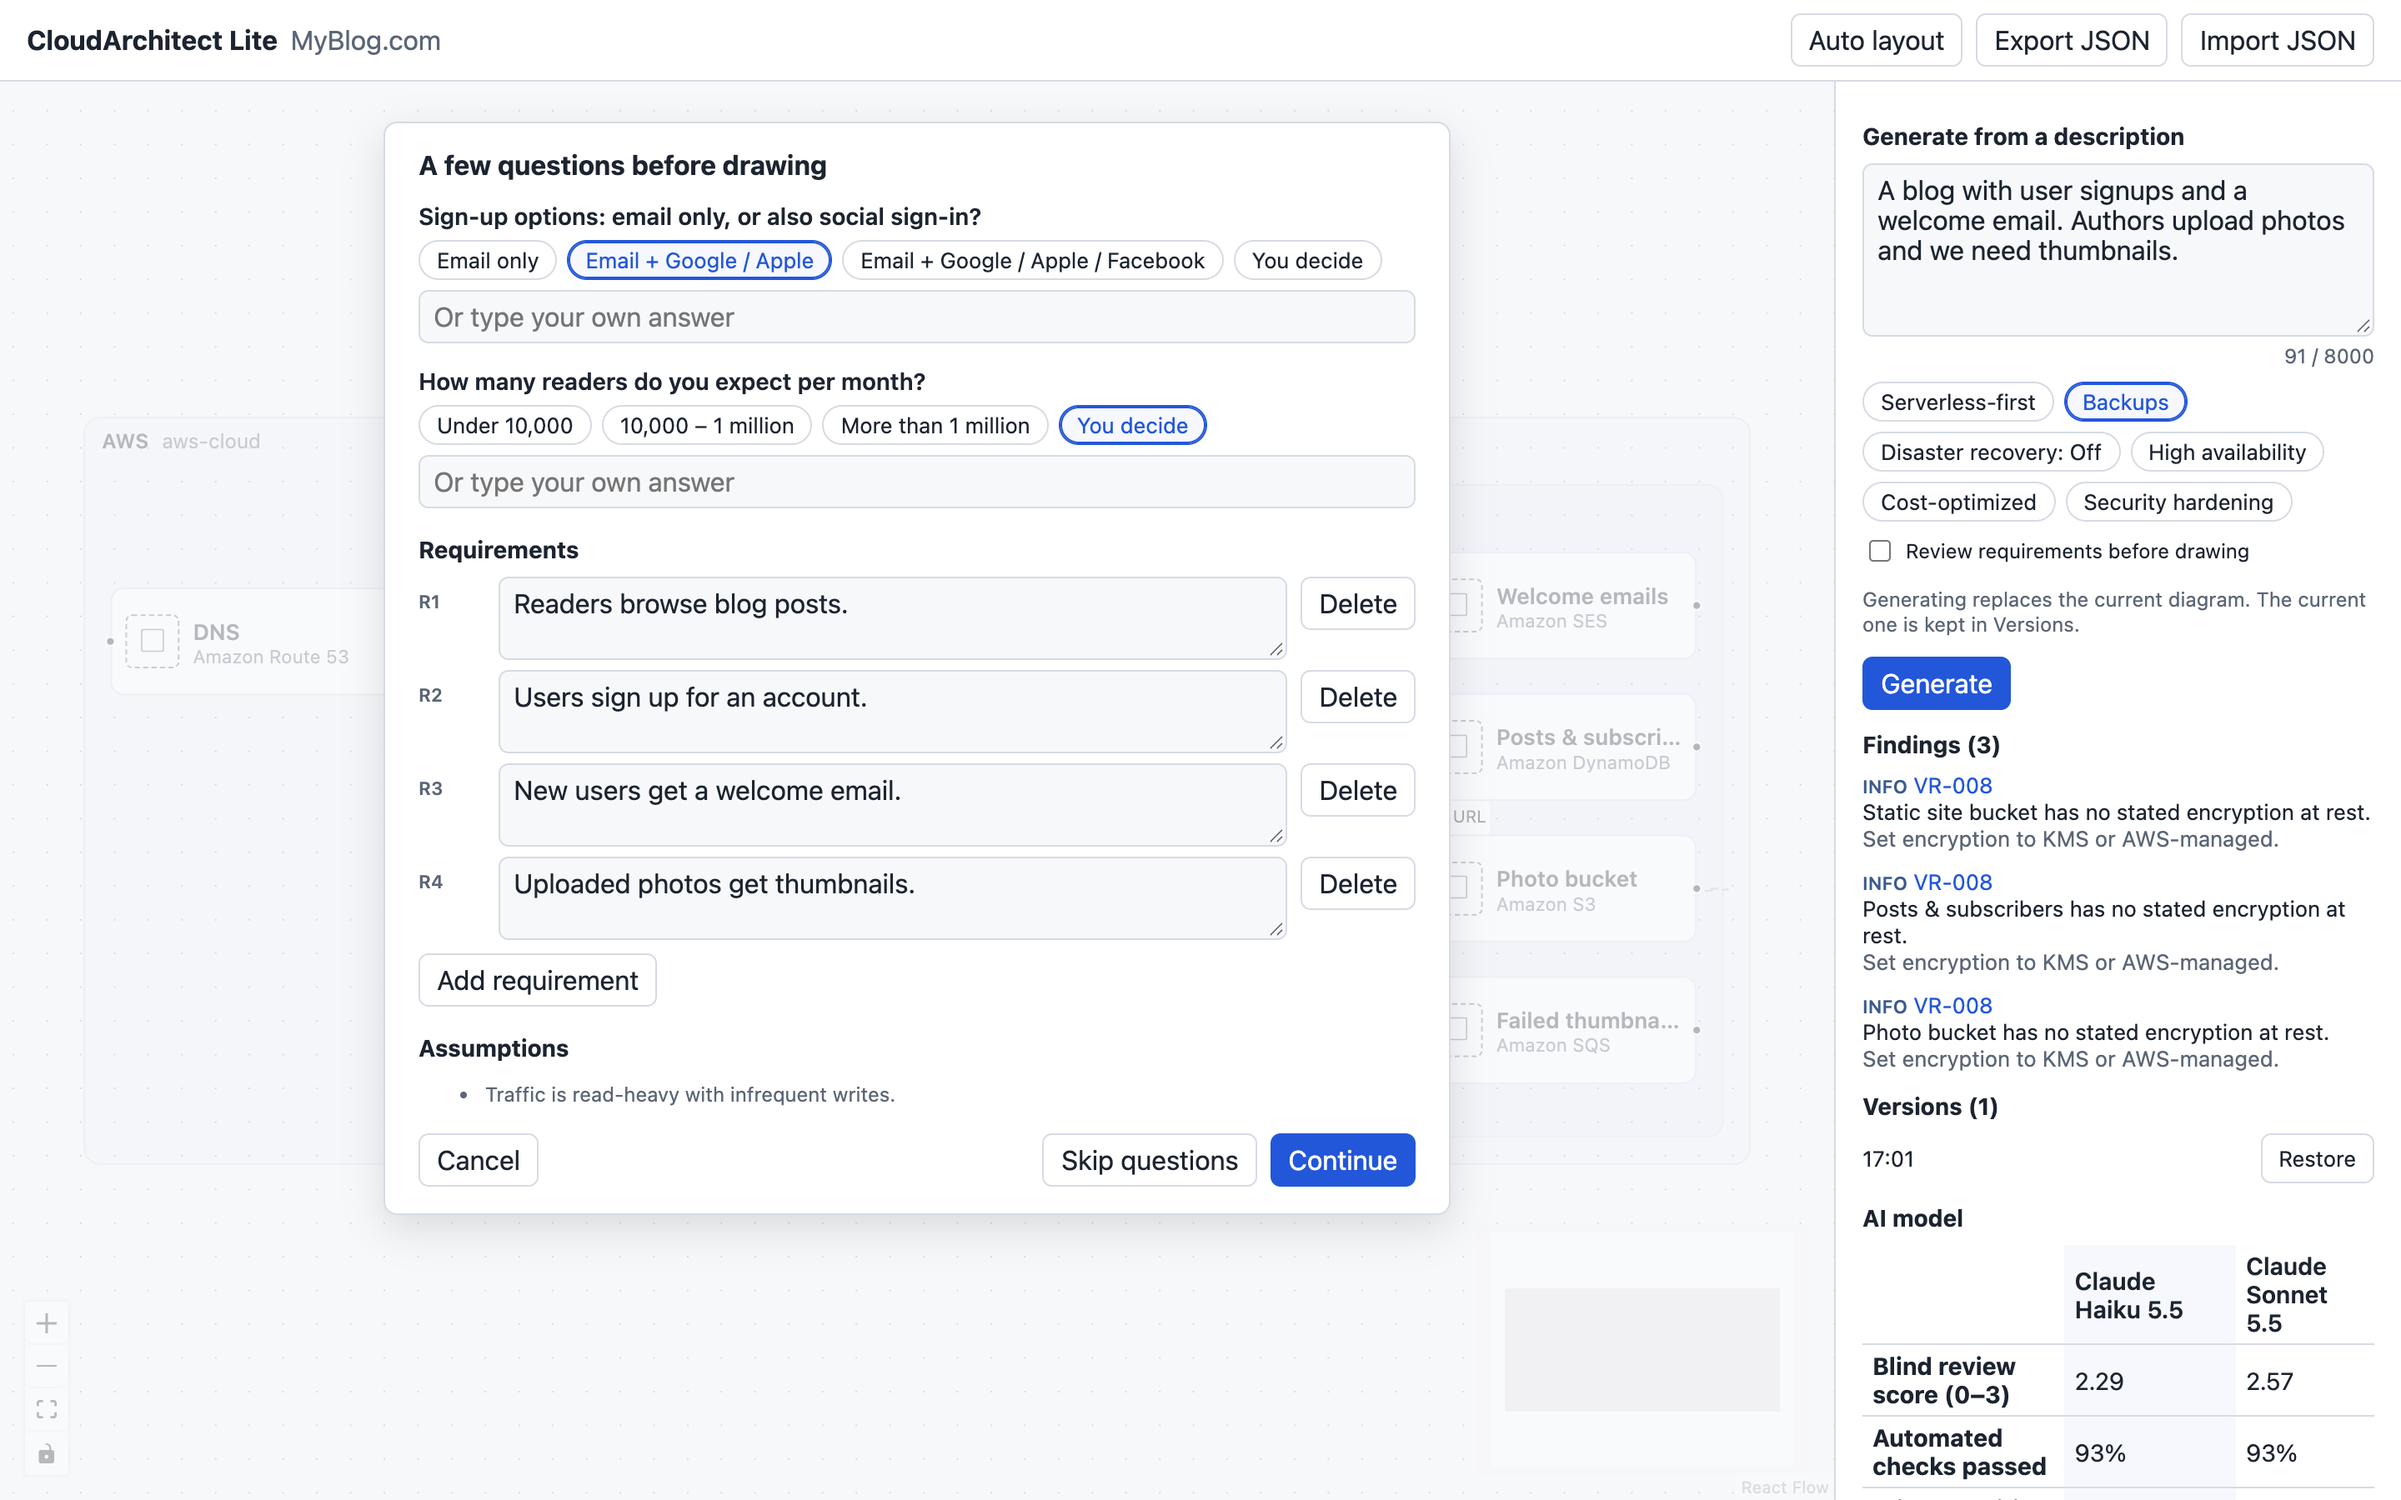
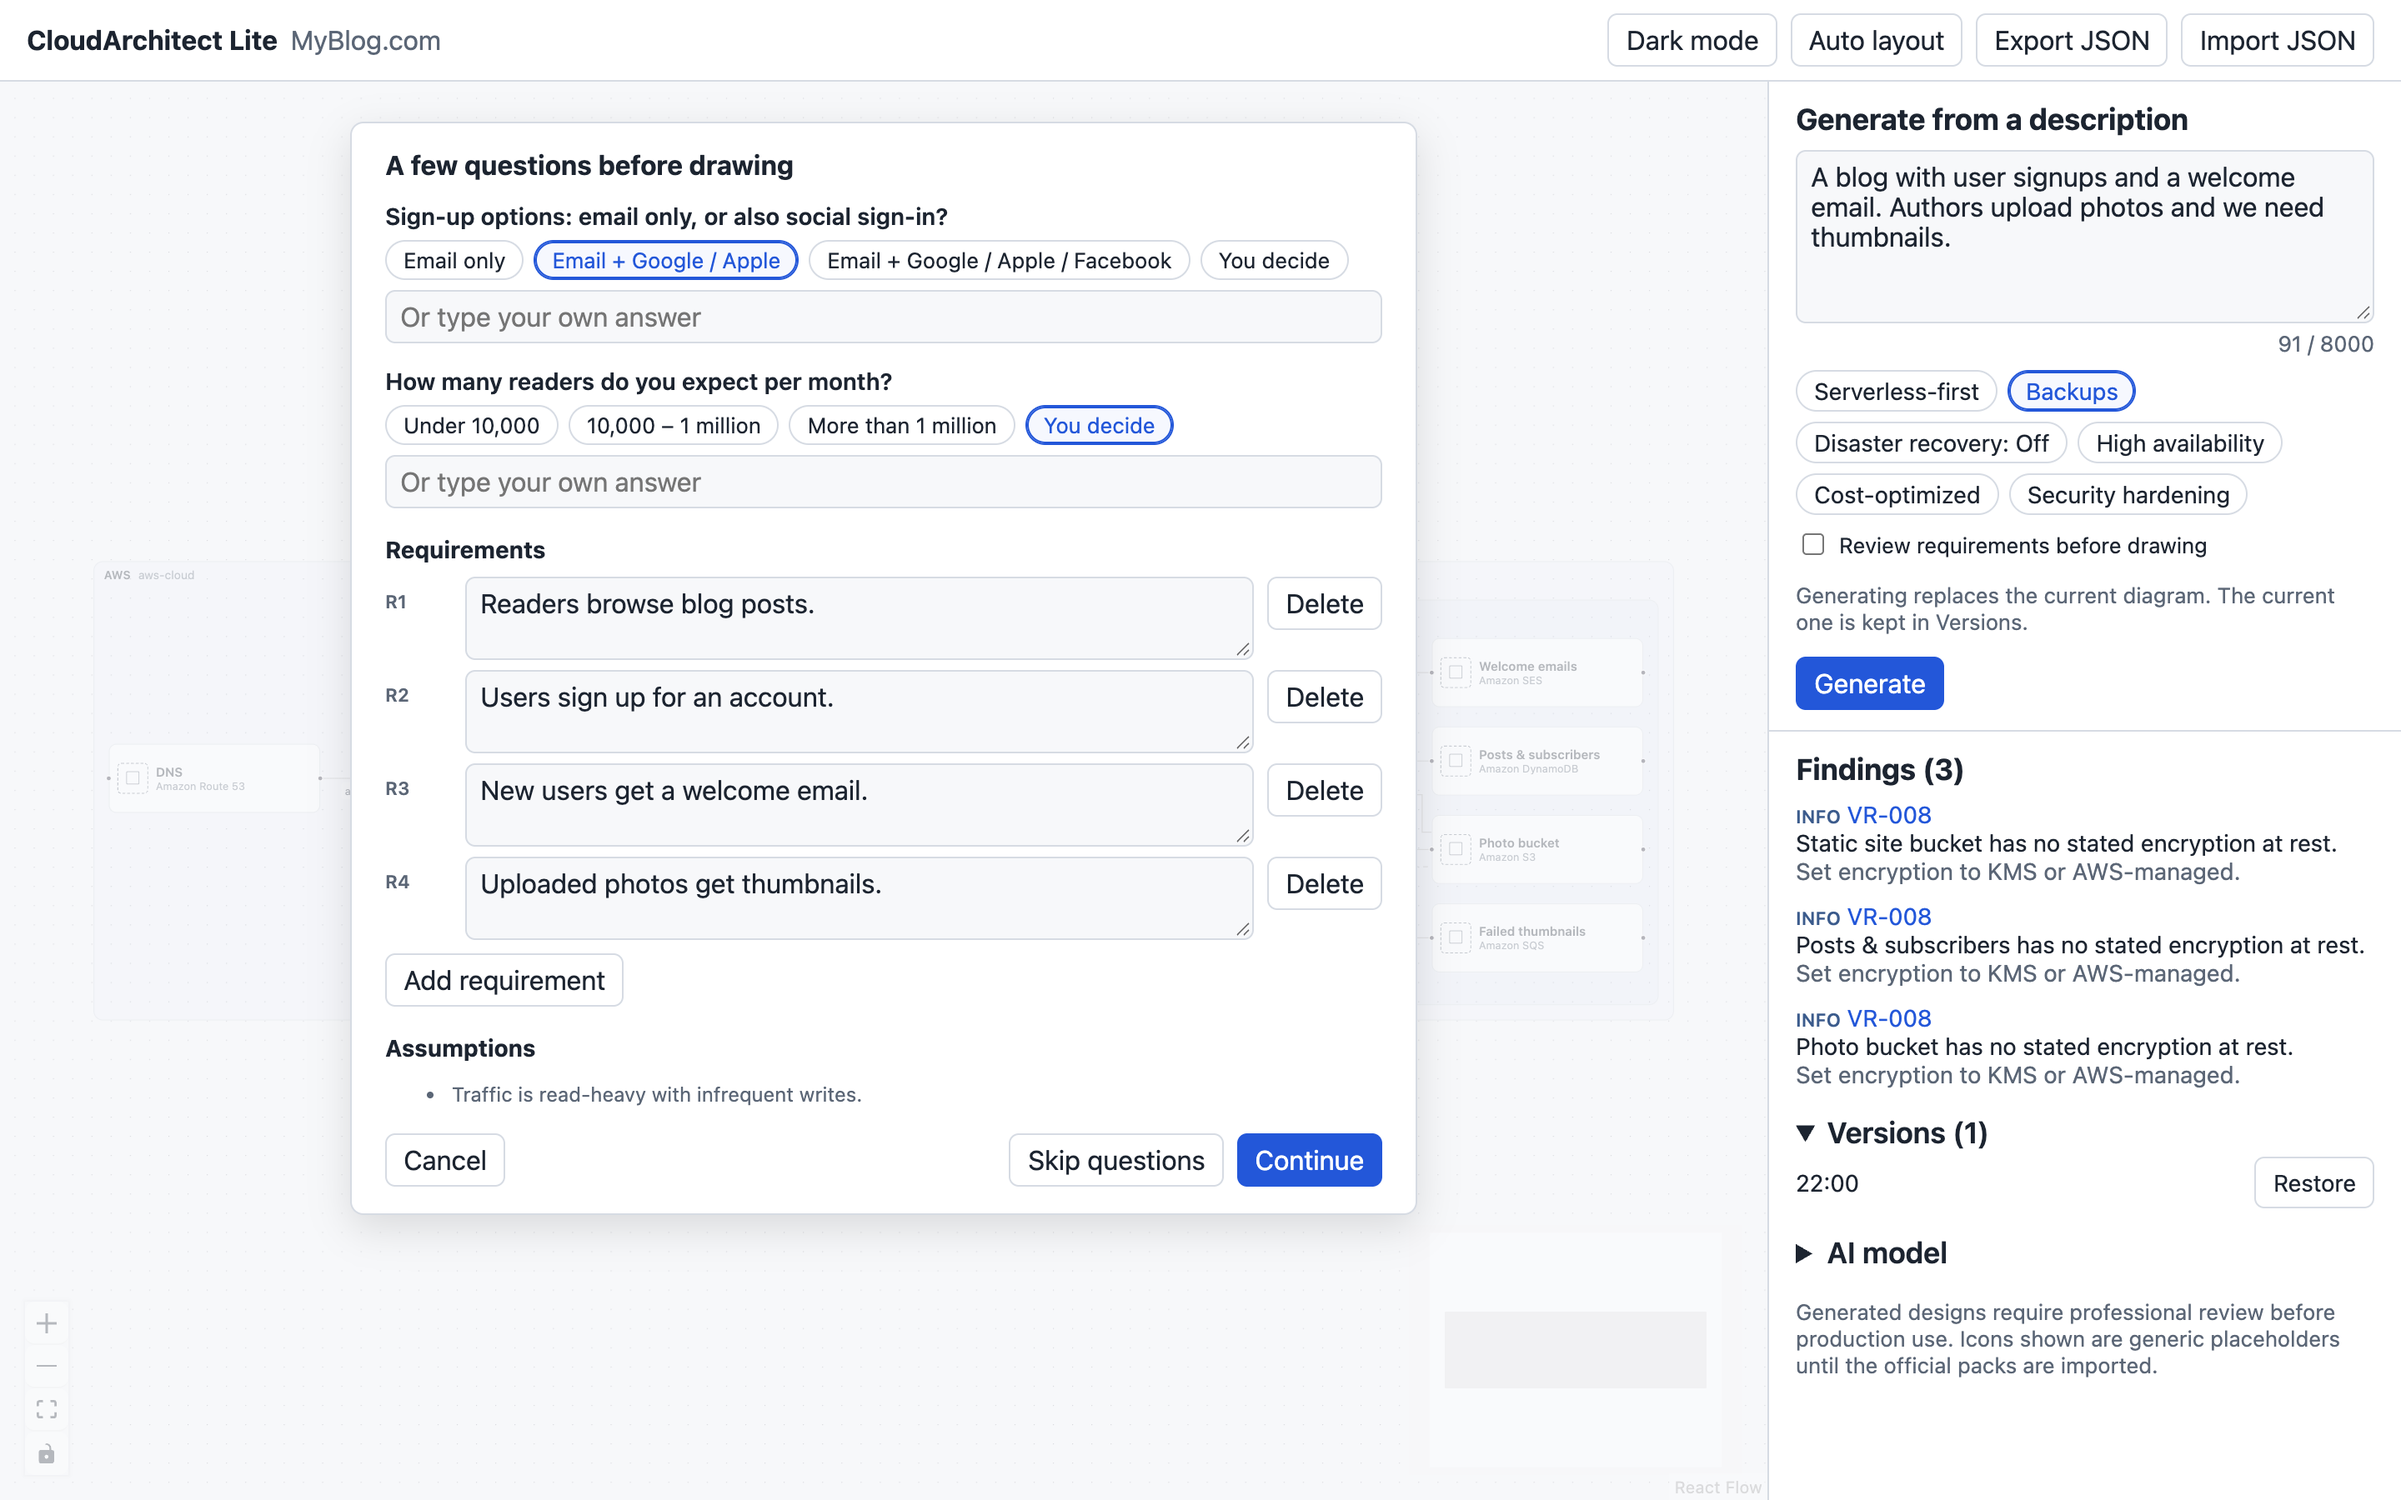
docs: record the editor readability work and refresh screenshots (#9)
Brings the docs in line with what is merged (PR #6 Phase 2, PR #7
caption fix, PR #8 editor readability).

- **CHANGELOG** (Unreleased): readable diagrams, resizing, theme switch,
side panel, generation status. Project format 1.4.0 under Changed, and
the model-caption fix.
- **README:** status line mentions readable layouts, resizing and the
theme switch. Screenshots regenerated with `pnpm screenshots`:
  - editor light and dark;
  - clarification;
  - setup step 3 (the new caption).
- **Roadmap E1:** readability pass recorded. Undo/redo and ELK in a Web
Worker are still open.
- **ADR-0005:** update note on orthogonal routing, label space and
in-memory route recovery.
- **Technical architecture:** schema example 1.4.0, node `size`,
migration summary.
- **Spec:** status set to implemented.
- **tools/screenshots.ts:** sets the editor's own theme in storage,
because the app no longer follows the OS color scheme.

No code changes in apps or packages, so the paid live eval does not run.

🤖 Generated with [Claude Code](https://claude.com/claude-code)

diff --git a/tools/screenshots.ts b/tools/screenshots.ts
@@ -207,6 +207,10 @@ try {
     const projectFile = await sampleWithFinding();
     for (const colorScheme of ['light', 'dark'] as const) {
       const context = await browser.newContext({ viewport, deviceScaleFactor: 2, colorScheme });
+      // The editor follows its own theme switch (light by default), not the OS preference.
+      await context.addInitScript((theme) => {
+        localStorage.setItem('cloudarchitect.theme', theme);
+      }, colorScheme);
       await editor(context, `editor-${colorScheme}`, projectFile);
       await context.close();
     }

diff --git a/CHANGELOG.md b/CHANGELOG.md
@@ -10,10 +10,21 @@ All notable changes are recorded here. The format follows [Keep a Changelog](htt
 - One clarification round: up to three questions with quick answers, "You decide" and free text, plus editable requirements before drawing (optional review pause when there are no questions).
 - Versions: the current diagram is kept in browser storage (last 10 per project) before a generated one replaces it; a toast offers "Restore previous" and a Versions list restores any earlier diagram. Hand-edited diagrams ask before they are replaced.
 - Component names can be edited in the Details panel.
+- Readable diagrams on first sight: wider component boxes with names wrapping to two lines, orthogonal connection routing with space reserved for labels (no label overlaps a component), and the view fits the whole diagram after generation, Restore, Import and Auto layout. Routes are recomputed when a diagram loads, wherever nothing was moved by hand.
+- Every component and group can be resized; a group cannot be shrunk smaller than its contents. Sizes are saved in the project.
+- Light/dark theme switch (light by default, remembered per browser).
+- Resizable side panel (drag or arrow keys) with the description, design priorities and Generate pinned at the top; AI model and Versions are collapsible and start collapsed.
+- Clear generation status: spinner, steps ("Reading your requirements" → "Designing the architecture" → "Checking the design"), elapsed timer, typical wait for the selected model, and Cancel; the canvas dims while a request runs.
 - Phase 2 Gate A passed: Haiku blind median 2.29, no critical defect in 11 of 12 reviewed scenarios, live gate green (schema-valid 100%, pass 93.2%). Model benchmarks in the setup wizard and editor now show these measurements ([report](docs/product/phase2-gate-a.md)).
+
+### Changed
+
+- Project format 1.4.0: components may store a `size`. Older files load unchanged (migration from 1.3.0) and keep their positions.
+- The editor follows its own theme switch instead of the operating system's color scheme.
 
 ### Fixed
 
+- The note under the model comparison shows the actual number of measured runs per model.
 - Generator: `containerId` is required (null for external nodes), so designs no longer come back without VPC and subnet placement.
 - Generator: output enums (service ids, feature keys, kinds) are enforced by constrained decoding; the SDK helper had moved them into field descriptions.
 - Generator: repair turns now name the offending node and edge ids and the remediation for each finding.

diff --git a/docs/product/technical-architecture.md b/docs/product/technical-architecture.md
@@ -64,7 +64,7 @@ Stable project schema example (illustrative subset):
 
 ```json
 {
-  "schemaVersion": "1.1.0",
+  "schemaVersion": "1.4.0",
   "projectId": "project-demo",
   "name": "MyBlog.com",
   "revision": 12,
@@ -93,12 +93,12 @@ Stable project schema example (illustrative subset):
 ```
 
 **Container** (new): id, kind (`aws-cloud` / `region` / `vpc` / `availability-zone` / `subnet` / `group`), parentId, label, properties (subnet: `public` | `private`, optional cidr), position, size. Allowed nesting: aws-cloud → region → vpc → availability-zone → subnet; `group` may appear at any level. Global services (CloudFront, Route 53, IAM) attach to `aws-cloud`, not a region.  
-**Node**: id, provider, either `serviceId` (from catalog) **or** `unresolved {name, rationale}` (PRD FR-020), label, purpose, rationale, requirementIds, configuration (catalog-defined feature keys such as `transferAcceleration`), containerId, position, metadata provenance.  
+**Node**: id, provider, either `serviceId` (from catalog) **or** `unresolved {name, rationale}` (PRD FR-020), label, purpose, rationale, requirementIds, configuration (catalog-defined feature keys such as `transferAcceleration`), containerId, position, optional size (1.4.0), metadata provenance.  
 **Edge**: id, source, target, kind (invoke/read/write/event/origin/other), protocol, configuration (e.g. `originAccess: OAC`, `authorizer: cognito`), auth notes, label, requirementIds. Direction is source → target; bidirectional semantics use two edges.  
 **Requirement**: id, text, type, status (`confirmed` / `inferred` / `open`), provenance.  
 **Finding**: id, class (`rule` | `advisory`), ruleId (rule only), severity (`error` / `warning` / `info`), nodeIds/edgeIds/containerIds, explanation, evidence (doc URLs), remediation, validator or model version.
 
-Graph uses stable resource IDs, never icon file names as the primary key. Service catalog version and project schema version are independent. Schema 1.0.0 → 1.1.0 migration: wrap existing nodes in a default `aws-cloud` container; rename `warnings` → `findings`.
+Graph uses stable resource IDs, never icon file names as the primary key. Service catalog version and project schema version are independent. Schema 1.0.0 → 1.1.0 migration: wrap existing nodes in a default `aws-cloud` container; rename `warnings` → `findings`. Later steps only add optional data: 1.2.0 external nodes, 1.3.0 `generation` metadata and the `toggle` provenance, 1.4.0 node `size`.
 
 ## 5. AI pipeline
 

diff --git a/README.md b/README.md
@@ -14,7 +14,7 @@ Local-first AI cloud architecture designer — AWS first, Azure/GCP ready. The a
   <img alt="The editor showing a serverless blog architecture inside AWS and region containers. A validation finding (VR-004, missing failure destination) is selected and its Lambda function is highlighted; the side panel shows the Generate panel with its design-priority toggles, then the component's details and the findings." src="docs/images/editor-light.png">
 </picture>
 
-**Status:** pre-alpha (ROADMAP Phase 2). AI generation from a description works: describe your app, pick design priorities, answer up to three clarifying questions, and get a validated diagram; earlier diagrams are kept in Versions. The editor, project format, catalog, validation rules, model benchmarks, gateway controls, self-hosted install and CI/CD work too.
+**Status:** pre-alpha (ROADMAP Phase 2). AI generation from a description works: describe your app, pick design priorities, answer up to three clarifying questions, and get a validated diagram; earlier diagrams are kept in Versions. Generated diagrams are laid out to be readable on first sight, every box can be resized, and the editor has a light/dark switch. The editor, project format, catalog, validation rules, model benchmarks, gateway controls, self-hosted install and CI/CD work too.
 
 ## How it works
 

diff --git a/docs/adr/0005-react-flow-and-elk.md b/docs/adr/0005-react-flow-and-elk.md
@@ -7,3 +7,5 @@
 **Decision.** `@xyflow/react` renders nodes and containers (parent nodes); `elkjs` computes hierarchical layouts with `hierarchyHandling: INCLUDE_CHILDREN`. Layout results are written back into the project so manual positions persist.
 
 **Consequences.** ELK is ~1.4 MB and is loaded lazily; it should move to a Web Worker (ROADMAP E1).
+
+**Update 2026-10-19.** ELK now routes edges orthogonally (`elk.edgeRouting: ORTHOGONAL`) and receives estimated edge-label sizes, so layered layout reserves space for labels; routes come back in root coordinates (`elk.json.edgeCoords: ROOT`) and a custom React Flow edge draws them. Routes are not stored in the project: after a load, Import or Restore the editor re-runs ELK in memory and keeps a route only where the endpoints and their containers are exactly where that layout puts them; edges touched by hand edits fall back to React Flow's smoothstep path. Components store an optional `size` (project format 1.4.0); Auto layout resets sizes to the defaults.

diff --git a/docs/product/roadmap.md b/docs/product/roadmap.md
@@ -23,7 +23,7 @@ The AI spike is moved into Phase 0 because generation quality is the main produc
 
 ## 3. Implementation epics
 
-**E1 — Project/Canvas:** editor, graph schema 1.1, **containers (FR-019)**, manual operations, undo/redo, ELK layout in a Web Worker, local save/load, schema migration.
+**E1 — Project/Canvas:** editor, graph schema 1.1, **containers (FR-019)**, manual operations, undo/redo, ELK layout in a Web Worker, local save/load, schema migration. Readability pass done 2026-10-19 after Gate A manual testing: orthogonal routing with label space, fit to view, resizable components and groups (schema 1.4.0), light/dark switch, resizable side panel, generation status. Still open: undo/redo, ELK in a Web Worker.
 
 **E2 — Cloud Catalog:** ~40 AWS services + containers + features, CloudFormation-checked IDs, lifecycle, evidence, icon pack import with hashes and terms, manual update checklist, provider-neutral interfaces, sample Azure/GCP schemas.
 

diff --git a/docs/superpowers/specs/2026-10-18-editor-readability-design.md b/docs/superpowers/specs/2026-10-18-editor-readability-design.md
@@ -1,6 +1,6 @@
 # Editor readability and panel UX — design
 
-Date: 2026-10-18 · Status: approved in chat by the product owner · Scope: `apps/web` (+ one optional field in `packages/domain`)
+Date: 2026-10-18 · Status: implemented (PR #8, merged 2026-10-19) · Scope: `apps/web` (+ one optional field in `packages/domain`)
 
 ## Why
 
